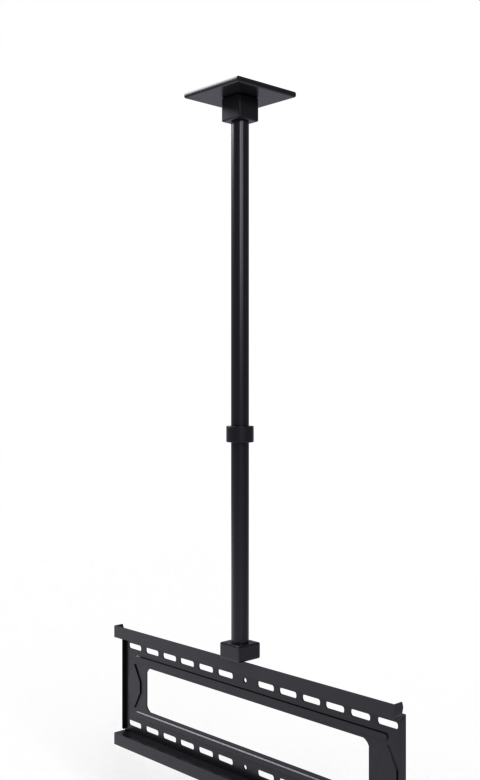
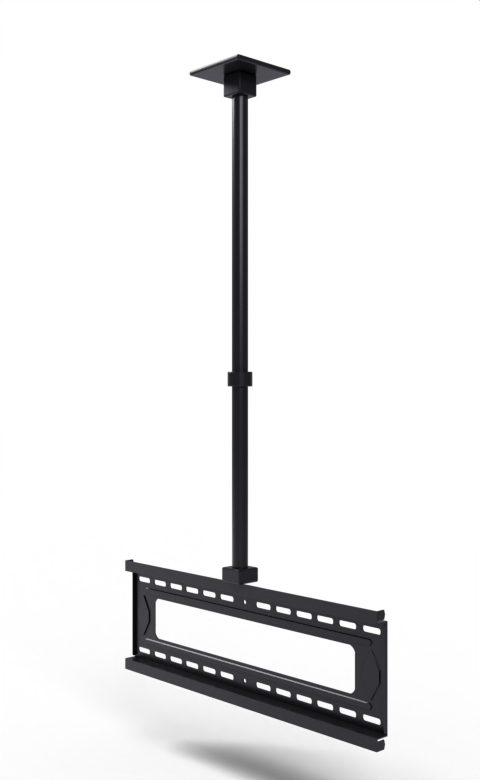
Ceiling mount: re-frame — raise asset, camera back
cam_pos (2.05, -1.92, 1.08), look-at z=1.08 so the asset sits a bit
higher in the 480×780 frame with comfortable margin top + bottom.

Changed region(s): [[0.2188, 0.0615, 0.8438, 1.0]]

diff --git a/scripts/render_mount_ceiling_cad.py b/scripts/render_mount_ceiling_cad.py
@@ -71,7 +71,7 @@ def setup_world():
     nt.links.new(bg.outputs['Background'], out.inputs['Surface'])
 
 
-def add_camera(fov_deg=42, cam_pos=(1.85, -1.74, 1.22), look_at=(0, 0, 1.22)):
+def add_camera(fov_deg=42, cam_pos=(2.05, -1.92, 1.08), look_at=(0, 0, 1.08)):
     cd = bpy.data.cameras.new('Camera')
     cd.lens_unit = 'FOV'; cd.angle = math.radians(fov_deg)
     cd.clip_start = 0.01; cd.clip_end = 50.0
